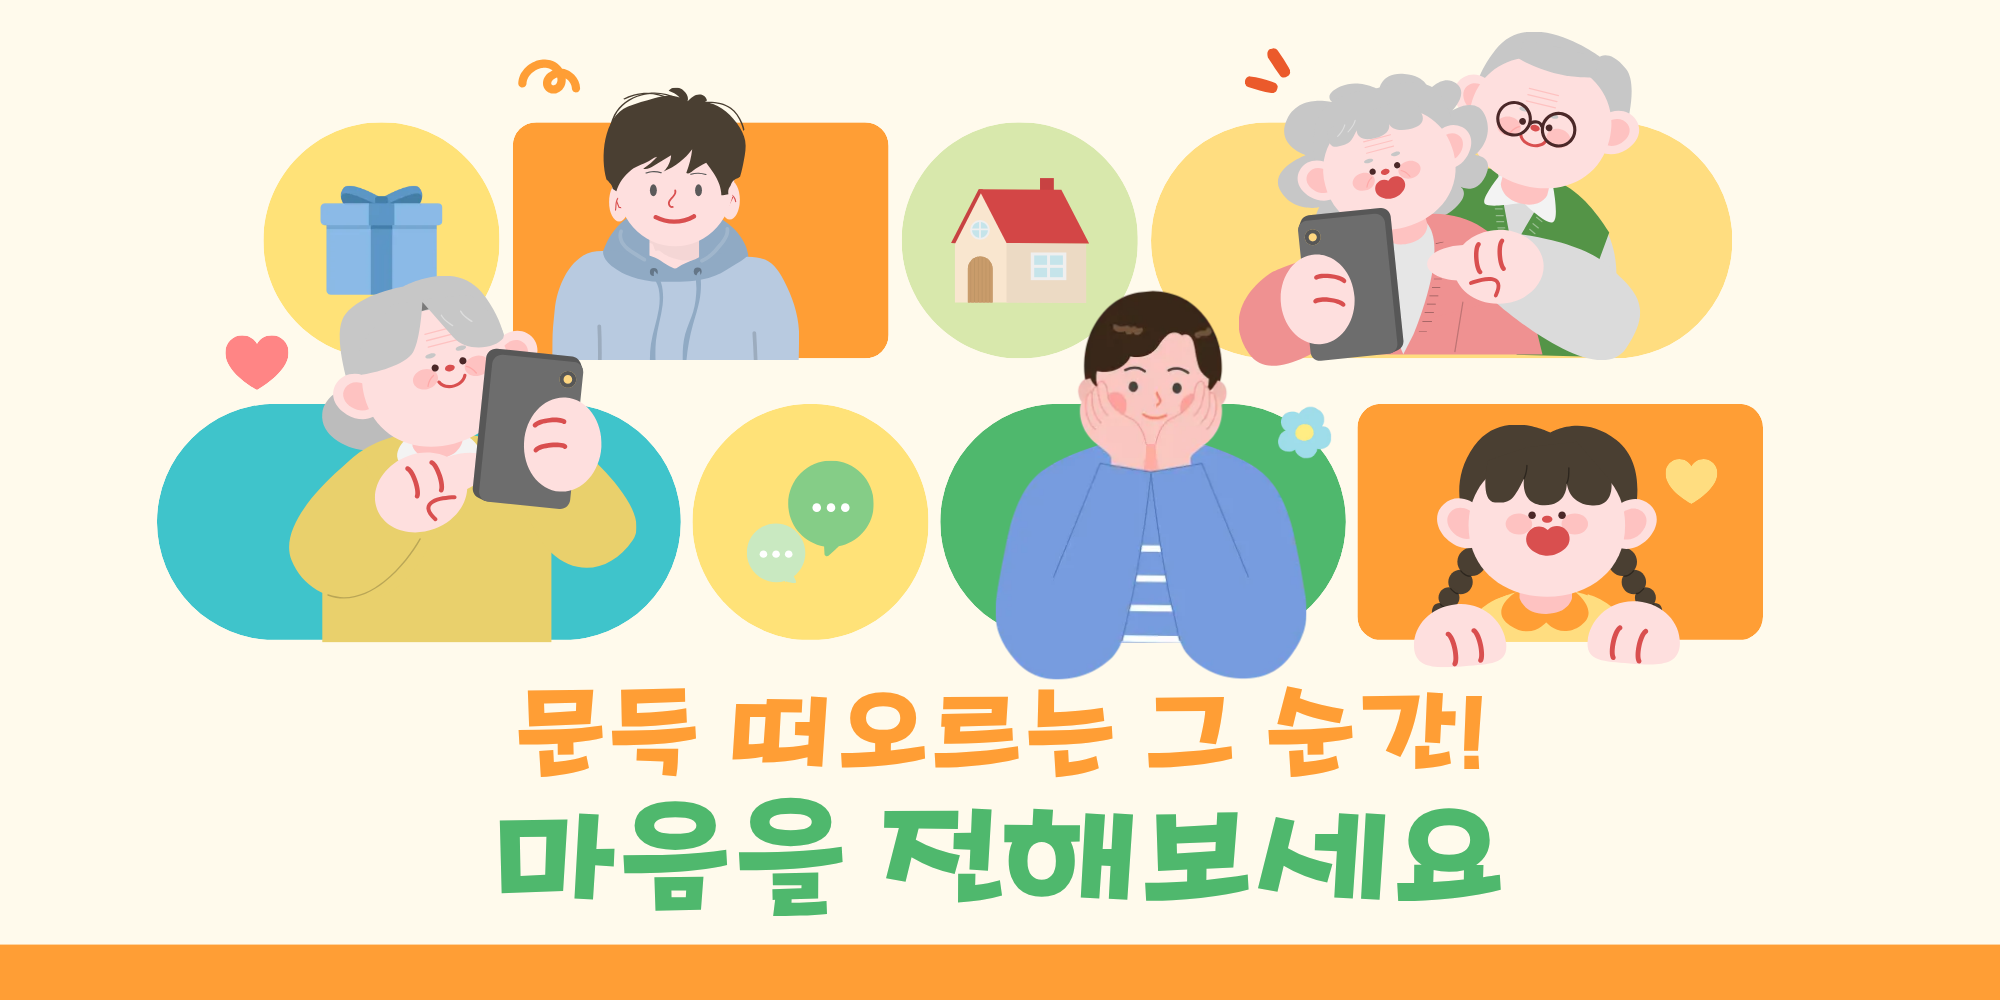
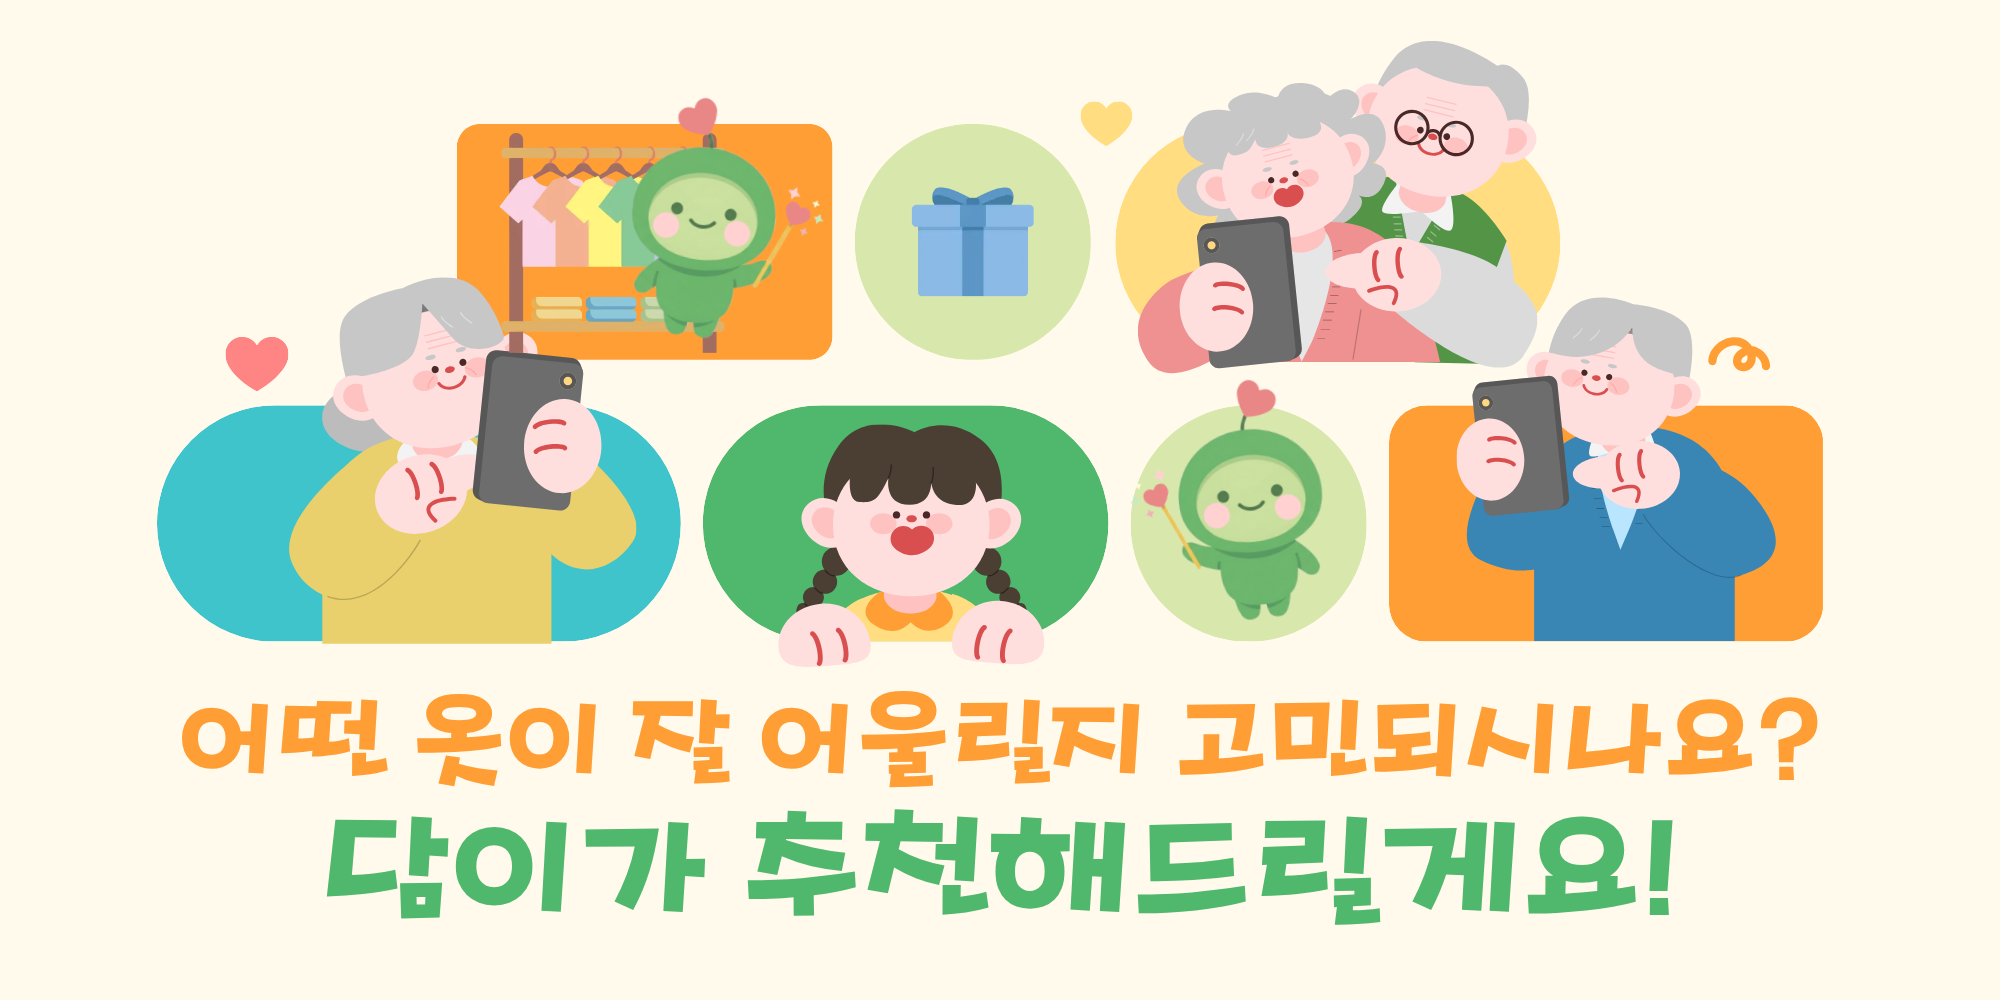
카테고리 이미지 파일

diff --git a/src/main/webapp/css/home.css b/src/main/webapp/css/home.css
@@ -274,11 +274,12 @@
 
 #homeClothesSection .section-title {
     margin-bottom: 10px;
+    font-weight: 700;
 }
 
 .category-chip span:last-child {
     font-size: 0.92rem;
-    font-weight: 700;
+    font-weight: 800;
 }
 
 .shortcut-grid {
@@ -348,7 +349,7 @@
 
 .shortcut-text p {
     font-size: 14px;
-    font-weight: 700;
+    font-weight: 800;
     color: var(--text-sub);
     margin: 0;
     text-align: left;
@@ -536,6 +537,7 @@
 .banner-card p {
     color: var(--text-sub);
     margin-bottom: 14px;
+    font-weight: 500;
 }
 
 .banner-link {
@@ -664,6 +666,7 @@
 .shorts-info p {
     color: var(--text-sub);
     margin-bottom: 12px;
+    font-weight: 500;
 }
 
 .shorts-btn {
@@ -705,11 +708,13 @@
 .notice-item p {
     flex: 1;
     font-size: 0.96rem;
+    font-weight: 500;
 }
 
 .notice-date {
     color: var(--text-muted);
     font-size: 0.82rem;
+    font-weight: 500;
 }
 
 .bottom-nav {
@@ -795,7 +800,7 @@ body.product-list-page .bottom-nav.bottom-nav--collapsed {
     border-radius: var(--radius-md);
     width: 100%;
     aspect-ratio: 2 / 1;
-    background: var(--brand-color);
+    background: #fff;
 }
 
 .slider-track {
@@ -819,7 +824,7 @@ body.product-list-page .bottom-nav.bottom-nav--collapsed {
     display: flex;
     align-items: center;
     justify-content: center;
-    background: var(--brand-color);
+    background: #fff;
     box-sizing: border-box;
 }
 

diff --git a/src/main/webapp/css/category.css b/src/main/webapp/css/category.css
@@ -12,6 +12,8 @@
 }
 
 .category-main {
+	display: flex;
+	flex-direction: column;
 	width: 100%;
 	max-width: var(--content-width);
 	margin: 0 auto;
@@ -22,6 +24,7 @@
 
 .category-top-tabs {
 	display: flex;
+	flex-shrink: 0;
 	border-bottom: 1px solid var(--border-color);
 	background: var(--bg-white);
 }
@@ -59,16 +62,18 @@
 
 .tab-content {
 	display: none;
-	min-height: 100%;
 }
 
 .tab-content.active {
-	display: block;
-	min-height: 100%;
+	display: flex;
+	flex-direction: column;
+	flex: 1 1 auto;
+	min-width: 0;
 }
 
 .category-layout {
 	display: flex;
+	flex: 1 1 auto;
 	min-height: calc(100vh - var(--category-header-area) - var(--category-bottom-pad));
 	align-items: stretch;
 	background: var(--bg-white);

diff --git a/src/main/webapp/css/group.css b/src/main/webapp/css/group.css
@@ -1139,10 +1139,11 @@
 }
 
 /* ----- 그룹 해산 / 나가기 확인 모달 (inquiry-write 확인 모달 톤과 통일) ----- */
+/* 뒤로가기·헤더까지 딤 / 하단 탭바(80px)는 딤 제외 — ai-recommend-modal과 동일 z-index */
 .group-modal {
   position: fixed;
   inset: 0;
-  z-index: 400;
+  z-index: 1100;
   display: flex;
   align-items: center;
   justify-content: center;
@@ -1157,7 +1158,8 @@
 .group-modal-dim {
   position: fixed;
   top: 0;
-  bottom: 0;
+  /* 하단 탭바 영역은 딤 없음 (home.css .bottom-nav 와 동일 높이) */
+  bottom: 80px;
   left: 50%;
   transform: translateX(-50%);
   width: 100%;

diff --git a/src/main/webapp/css/auth.css b/src/main/webapp/css/auth.css
@@ -71,6 +71,7 @@ a {
   margin: 0;
   font-size: 16px;
   color: var(--sub-text);
+  font-weight: 700;
 }
 
 .auth-card {
@@ -227,6 +228,7 @@ a {
   color: #909090;
   font-size: 14px;
   margin: 18px 0;
+  font-weight: 700;
 }
 
 .divider::before,
@@ -245,15 +247,17 @@ a {
   margin-top: 18px;
   font-size: 15px;
   color: var(--sub-text);
+  font-weight: 700;
 }
 
 .info-box {
-  background: #f8faf8;
-  border: 1px solid #ebf1eb;
+  background: #F7F7F7;
+  border: 1px solid #EAEAEA;
   border-radius: 16px;
   padding: 16px;
   font-size: 15px;
-  color: #4d5a4e;
+  color: #6C6C6C;
+  font-weight: 600;
   margin: 0 auto 100px auto;
 }
 
